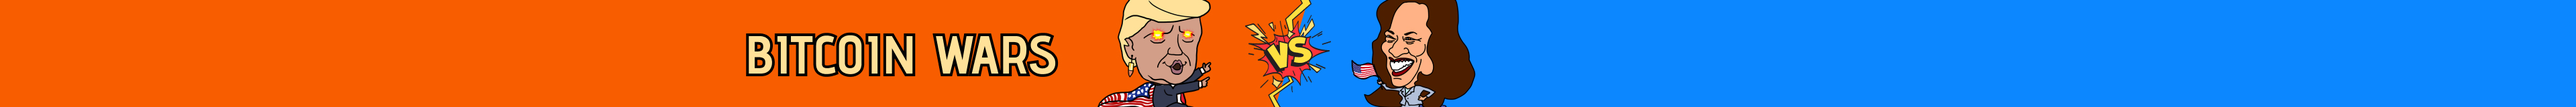
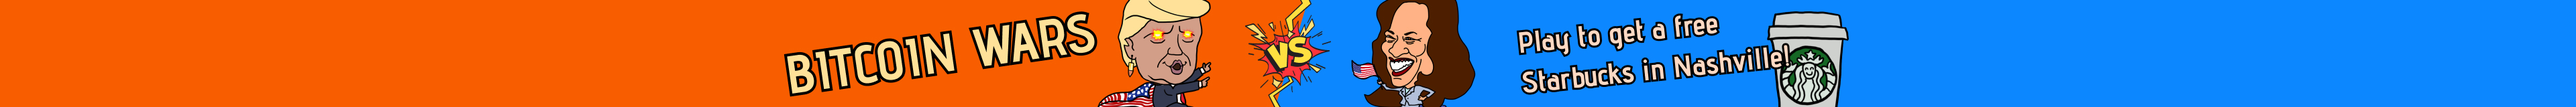
update homepage

Changed region(s): [[0.5625, 0.0938, 0.7188, 1.0], [0.2812, 0.125, 0.4375, 0.9062]]

diff --git a/src/layouts/HeaderV3/Main/style.module.scss b/src/layouts/HeaderV3/Main/style.module.scss
@@ -34,31 +34,6 @@
 
       }
     }
-    &_btn {
-      position: absolute;
-      background-color: #FA4E0E;
-      color: #fff;
-
-      cursor: pointer;
-      height: 44px;
-      top: 50%;
-      right: 50%;
-      transform: translate(50%, -50%);
-      display: flex;
-      justify-content: center;
-      align-items: center;
-      border-radius: 1000px;
-      width: 100px;
-
-      @include is-min-table{
-        width: 150px;
-      }
-      @include is-pc {
-        top: 50%;
-        right: 36%;
-        transform: translate(43%, -50%);
-      }
-    }
   }
 }
 

diff --git a/src/modules/landingV3/Componets/Brand/index.tsx b/src/modules/landingV3/Componets/Brand/index.tsx
@@ -8,7 +8,7 @@ export default function Brand() {
     <div className={s.wrapper}>
       <div className="containerV3">
         <h2 className={s.heading}>
-          Build your Bitcoin-backed blockchain with the best blockchain technologies
+          Mix and match the best tech to build your unique Bitcoin-based blockchain.
         </h2>
         <div className={s.brand}>
           {DATA_BRAND.map((item) => {

diff --git a/src/layouts/HeaderV3/Main/index.tsx b/src/layouts/HeaderV3/Main/index.tsx
@@ -40,7 +40,6 @@ const Main = ({
         showBanner && (
           <div className={s.wrapper_banner} onClick={() => router.push('/bitcoinwars')}>
             <Image src={'/banner.jpg'} alt={'banner'} width={1920} height={80} quality={100} />
-            <div className={s.wrapper_banner_btn}>Play now</div>
           </div>
         )
       }
